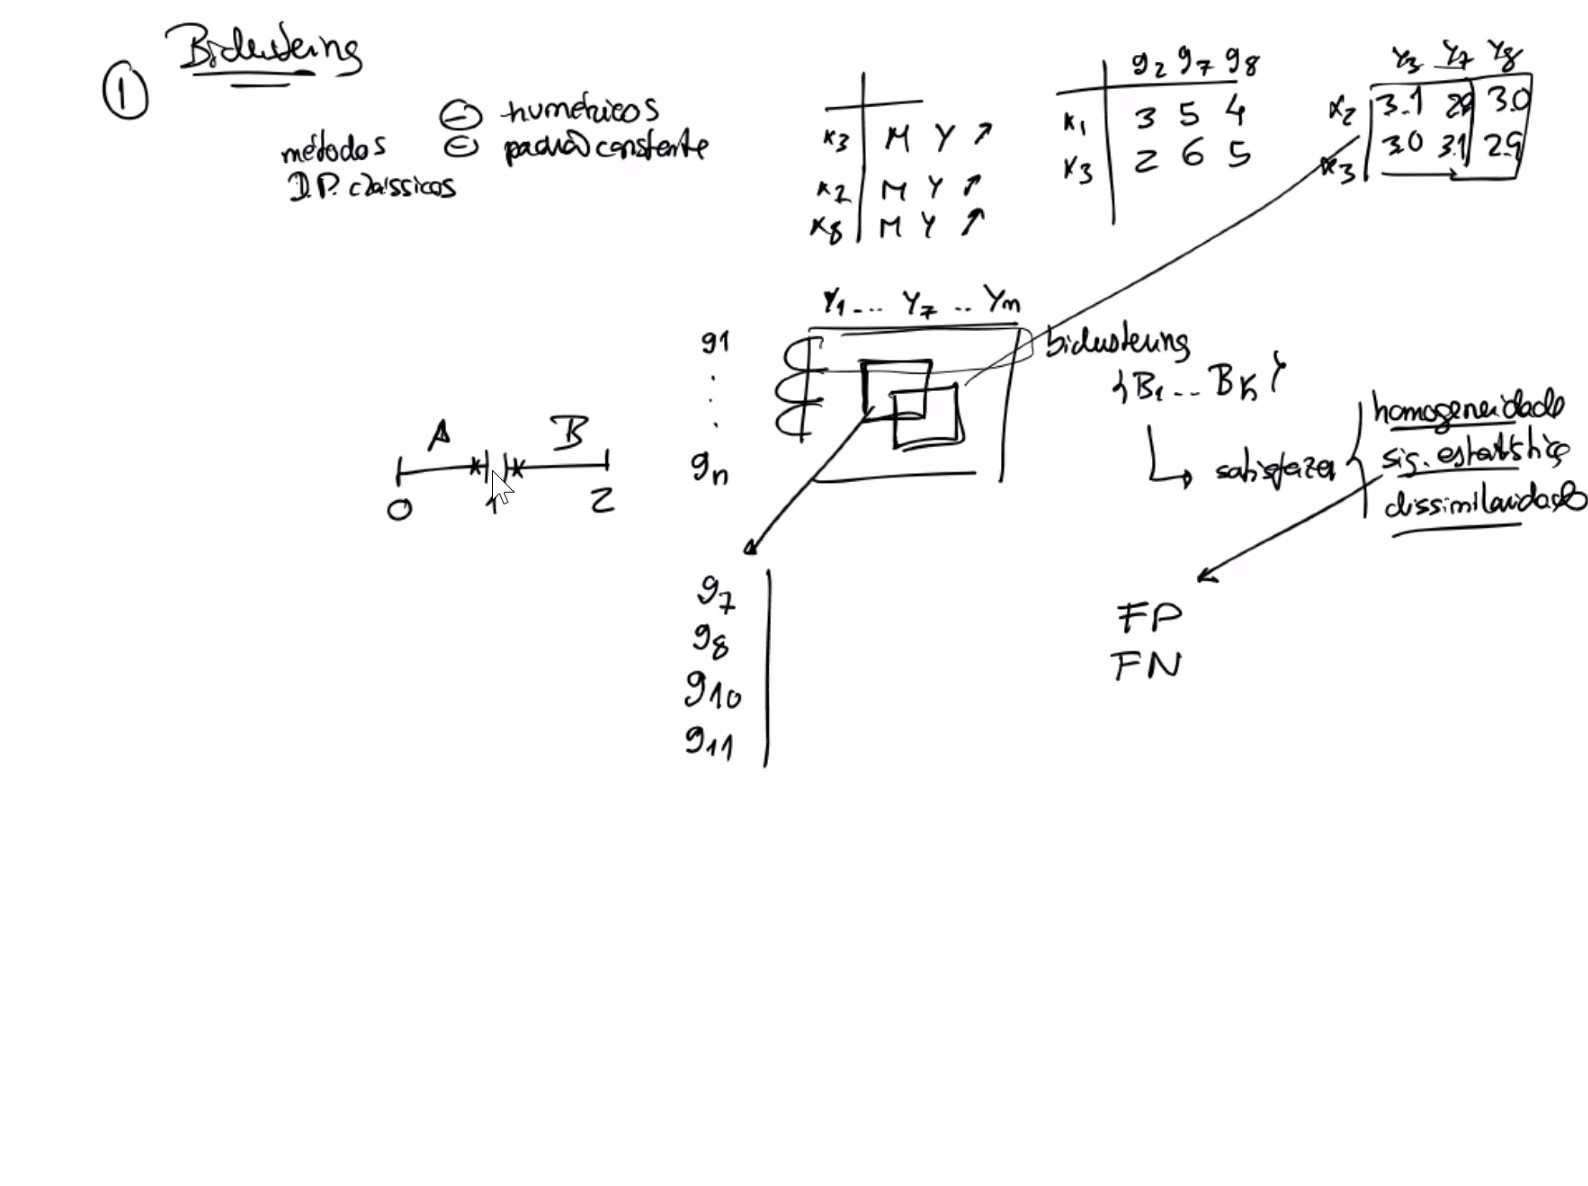
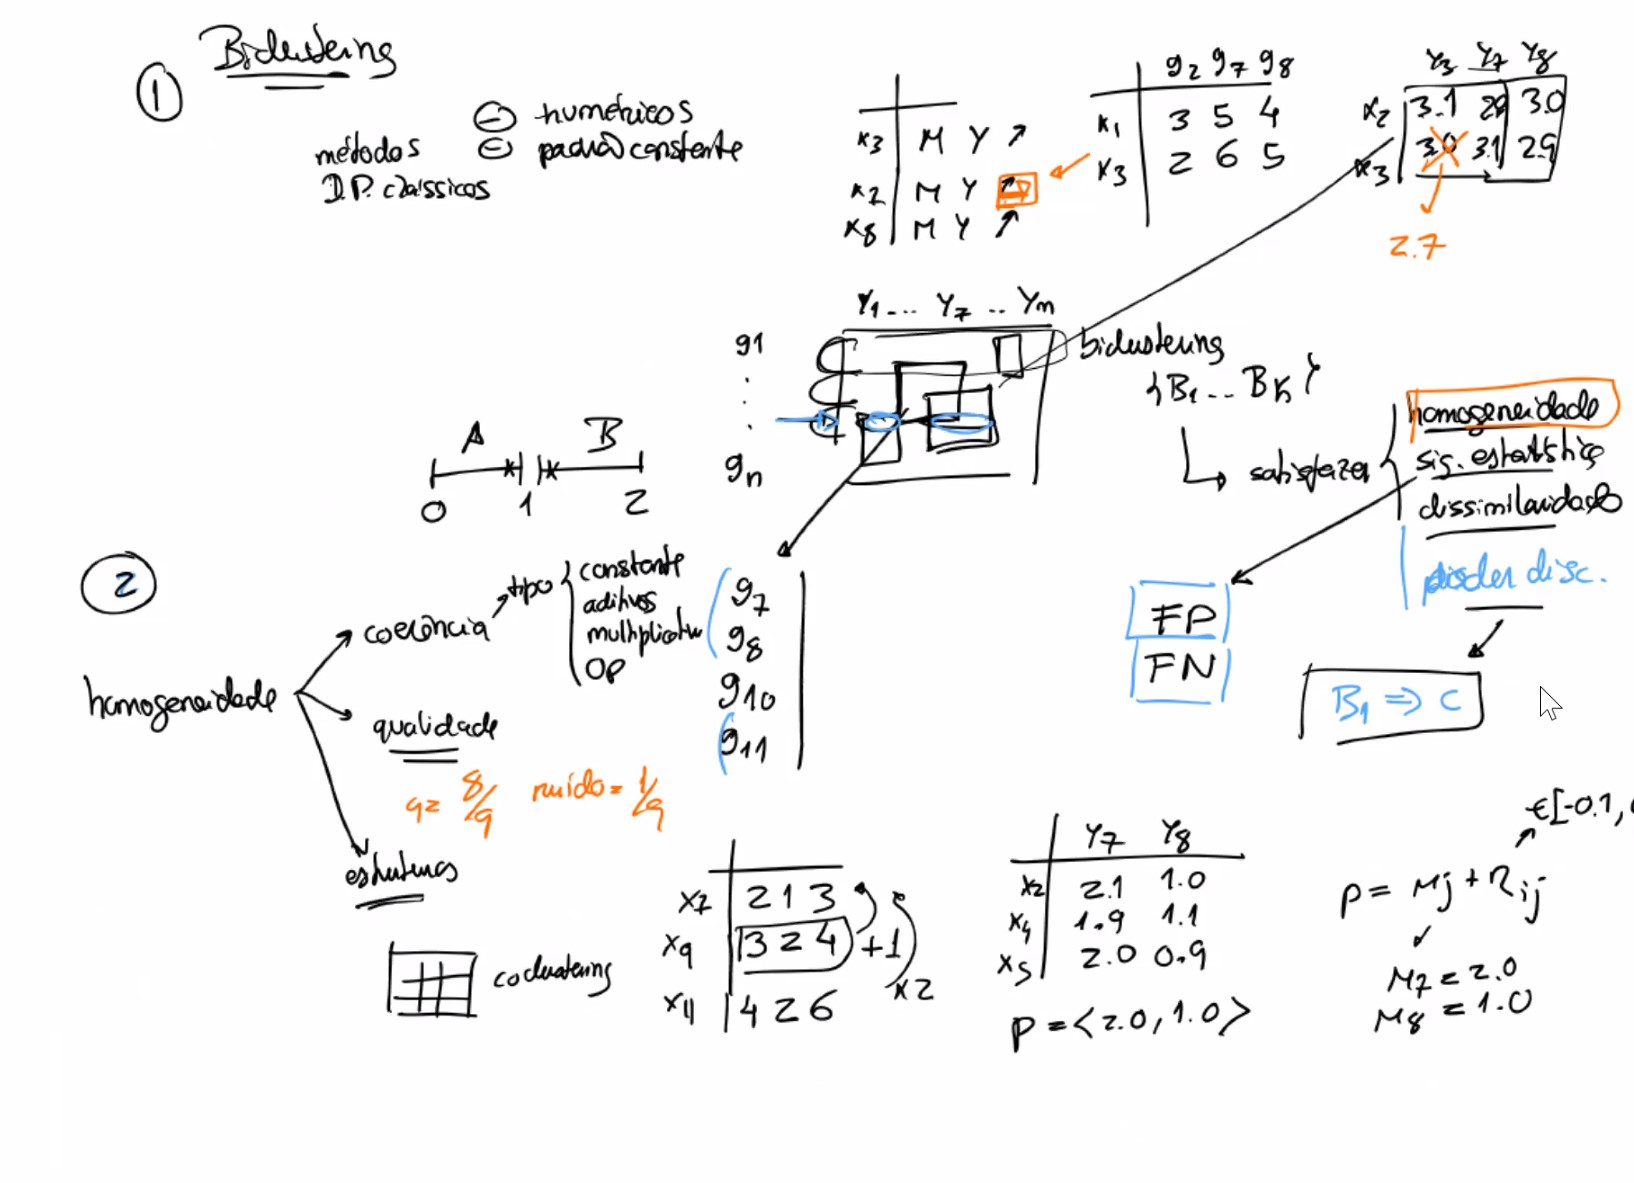
final notes aula 4

diff --git a/non_supervised_analysis/notes/joao/joao_notes.md b/non_supervised_analysis/notes/joao/joao_notes.md
@@ -630,53 +630,68 @@ maximal: 𝐴𝐶[𝑠𝑢𝑝 = 2],𝐷[𝑠𝑢𝑝 = 2]
 
 
 ## Biclustering
-
-### Introduction to Biclustering
-
-Biclustering, also known as co-clustering or two-way clustering, is a data mining technique that simultaneously clusters rows and columns of a matrix. Unlike traditional clustering methods that group either rows or columns, biclustering identifies submatrices where rows and columns exhibit similar behavior. This technique is particularly useful in analyzing data with complex structures, such as gene expression data, where genes and conditions can be co-regulated.
-
-### Motivation for Biclustering
-
-The motivation for biclustering arises from the need to uncover local patterns in data that may not be apparent through global clustering methods. Some key motivations include:
-
-1. **Complex Data Structures**: In many real-world datasets, such as gene expression data, traditional clustering methods may fail to capture the intricate relationships between subsets of rows and columns. Biclustering addresses this by identifying submatrices with coherent patterns.
-
-2. **Co-Regulation Analysis**: In bioinformatics, biclustering is used to identify groups of genes that are co-regulated under specific conditions. This helps in understanding gene functions and regulatory mechanisms.
-
-3. **Market Basket Analysis**: In retail, biclustering can be used to identify groups of customers who purchase similar sets of products, providing insights for targeted marketing and inventory management.
-
-4. **Recommendation Systems**: Biclustering can enhance recommendation systems by identifying user-item subgroups with similar preferences, leading to more accurate recommendations.
-
-### Example of Biclustering in Python
-
-Here's a simple example of applying biclustering using the Spectral Biclustering algorithm from the `sklearn` library:
-
-```python
-import numpy as np
-from sklearn.datasets import make_biclusters
-from sklearn.cluster import SpectralBiclustering
-import matplotlib.pyplot as plt
-
-# Generate synthetic data with biclusters
-data, rows, columns = make_biclusters(shape=(300, 300), n_clusters=5, noise=0.1, random_state=0)
-
-# Apply Spectral Biclustering
-model = SpectralBiclustering(n_clusters=5, random_state=0)
-model.fit(data)
-
-# Plot the biclusters
-fit_data = data[np.argsort(model.row_labels_)]
-fit_data = fit_data[:, np.argsort(model.column_labels_)]
-
-plt.matshow(fit_data, cmap='viridis')
-plt.title("Biclusters")
-plt.show()
-```
-
-In this example:
-- We generate synthetic data with biclusters.
-- We apply the Spectral Biclustering algorithm to identify the biclusters.
-- We plot the biclusters to visualize the coherent submatrices.
-
-Biclustering provides a powerful approach to uncovering hidden patterns in complex datasets, making it a valuable tool in various fields such as bioinformatics, marketing, and recommendation systems.
 ![alt text](aula_4_biclustering.jpg)
+
+Biclustering, also known as co-clustering or two-way clustering, is a data mining technique that simultaneously clusters rows and columns of a matrix. Unlike traditional global clustering methods that group either rows or columns independently, biclustering aims to find local patterns by identifying submatrices with high homogeneity and coherence.
+Biclustering is particularly useful in fields such as bioinformatics, where it can identify gene expression patterns across different conditions, and in market basket analysis, where it can uncover associations between products and customer segments. By focusing on local patterns, biclustering provides a more nuanced understanding of complex datasets.
+
+### Global Clustering vs Local Biclustering
+
+- **Global Clustering**: This approach groups the entire dataset into clusters based on overall similarity. It is effective for identifying broad patterns but may miss local structures and specific relationships within subsets of the data.
+- **Local Biclustering**: In contrast, biclustering focuses on discovering local patterns by clustering subsets of rows and columns simultaneously. This method can reveal more detailed and specific structures within the data, capturing local coherence that global clustering might overlook.
+
+### Key Concepts
+
+- **Homogeneity**: Biclustering aims to find submatrices where the data points are similar to each other, ensuring that the identified clusters are homogeneous.
+    - **Coherence**: This refers to the consistency of patterns within the biclusters. Coherent biclusters exhibit a structured relationship between rows and columns, maintaining a consistent pattern across the submatrix.
+    - **Structure**: Biclustering identifies the underlying structure within the data by revealing submatrices that exhibit specific patterns or relationships. This helps in understanding the intricate details of the dataset.
+    - **Quality**: The quality of biclusters is evaluated based on criteria such as homogeneity, coherence, and the ability to capture meaningful patterns. High-quality biclusters provide valuable insights into the data.
+
+
+### Models in Biclustering
+
+Biclustering models are designed to identify different types of patterns within submatrices of a dataset. Here are some common models used in biclustering:
+
+#### 1. Constant Model
+The constant model identifies biclusters where all values are approximately the same. This model is useful for finding submatrices with uniform values.
+- **Example**: A submatrix where all gene expression levels are similar across different conditions.
+
+#### 2. Constant Rows Model
+The constant rows model identifies biclusters where each row has a constant value, but the values can differ between rows. This model captures patterns where rows exhibit consistent behavior across columns.
+- **Example**: A submatrix where each gene has a constant expression level across different conditions, but the levels vary between genes.
+
+#### 3. Constant Columns Model
+The constant columns model identifies biclusters where each column has a constant value, but the values can differ between columns. This model captures patterns where columns exhibit consistent behavior across rows.
+- **Example**: A submatrix where each condition has a constant gene expression level, but the levels vary between conditions.
+
+#### 4. Additive Model
+The additive model identifies biclusters where the values can be expressed as the sum of a row effect and a column effect. This model captures patterns where the combined effect of rows and columns influences the values.
+- **Example**: A submatrix where gene expression levels are influenced by both gene-specific and condition-specific effects.
+
+#### 5. Multiplicative Model
+The multiplicative model identifies biclusters where the values can be expressed as the product of a row effect and a column effect. This model captures patterns where the interaction between rows and columns influences the values.
+- **Example**: A submatrix where gene expression levels are influenced by the interaction between gene-specific and condition-specific factors.
+
+#### 6. Plaid Model
+The plaid model is a more complex model that identifies biclusters by fitting multiple layers of additive and multiplicative effects. This model captures overlapping biclusters and more intricate patterns within the data.
+- **Example**: A submatrix where gene expression levels are influenced by multiple overlapping factors, such as different biological pathways.
+
+These models provide various approaches to uncovering the underlying structure of data, each suited to different types of patterns and relationships within the dataset.
+
+### Merit Functions
+
+Merit functions are used to evaluate the quality of biclusters by quantifying their homogeneity, coherence, and overall structure. These functions help in identifying the most meaningful and informative biclusters within a dataset.
+
+#### Coherence Strength
+
+Coherence strength measures the consistency of patterns within a bicluster. It evaluates how well the values in the bicluster follow a specific pattern or relationship. Higher coherence strength indicates that the bicluster exhibits a more consistent and structured pattern.
+
+#### Quality
+
+The quality of a bicluster is assessed based on various criteria, including homogeneity, coherence, and the ability to capture meaningful patterns. High-quality biclusters provide valuable insights into the data by revealing significant relationships and structures. Quality metrics help in comparing different biclusters and selecting the most informative ones.
+
+#### Structure
+
+The structure of a bicluster refers to the underlying pattern or relationship between rows and columns within the submatrix. Identifying the structure helps in understanding the intricate details of the dataset and uncovering hidden patterns. Different biclustering models aim to capture various types of structures, such as constant values, additive effects, or multiplicative interactions.
+
+These concepts are essential for evaluating and interpreting the results of biclustering, ensuring that the identified biclusters provide meaningful and actionable insights into the data.
